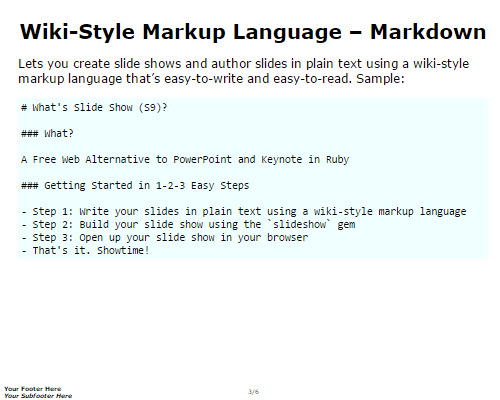
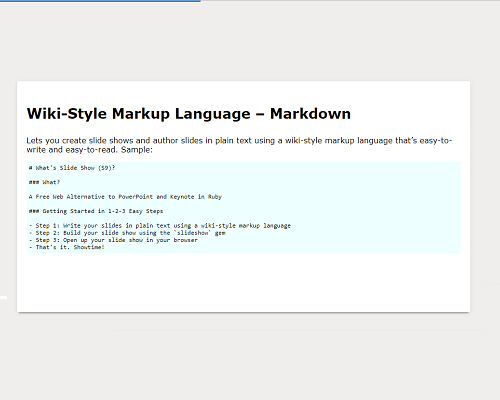
use _slides

diff --git a/_slides/05-templates.html b/_slides/05-templates.html
@@ -1,0 +1,24 @@
+---
+---
+
+<h1>Slide Show (S9) Template Pack Options</h1>
+<!-- begin left {} -->
+<table width='100%'><tr><td width='50%' markdown='block' style='vertical-align: top;'>
+<h3>What&#8217;s S5?</h3>
+<p>Simple Standards-based Slide Show System (S5) is a classic public domain (free, open source) slide show package inspired by Opera Show and others
+that works in all modern browsers (without any plugin required
+because it includes its own slide show machinery in JavaScript).</p>
+<p>(Use the <code>s5blank</code> or <code>s5themes</code> template pack to create S5 slide shows.)</p>
+</td>
+<!-- end left -->
+<!-- begin right {} -->
+<td width='50%' markdown='block' style='vertical-align: top;'>
+<h3>What&#8217;s S6?</h3>
+<p>S6 started as a rewrite of S5 using the jQuery JavaScript library &#8212; offering easier to understand and easier to extend code. Add plugins, effects and more. Contributions welcome!</p>
+<p>(Use the <code>s6blank</code> or <code>s6syntax</code> template pack to create S6 slide shows.)</p>
+</td></tr></table>
+<!-- end right -->
+
+<h3>What&#8217;s Slidy? What&#8217;s Google HTML5 Slides?</h3>
+<p>Check the <a href="http://slideshow-templates.github.io">Slide Show (S9) Template Gallery</a>
+for more template packs and samples.</p>

diff --git a/_slides/01-agenda.html b/_slides/01-agenda.html
@@ -1,0 +1,37 @@
+---
+---
+
+<h1>Slide Show (S9) 10-Minute Tutorial</h1>
+<p>Agenda</p>
+<ul>
+  <li>What&#8217;s Slide Show (S9)?</li>
+  <li>Wiki-Style Markup Language &#8211; Markdown, Textile</li>
+  <li>How it works &#8211; Just press F11!</li>
+  <li>What&#8217;s S5? What&#8217;s S6?</li>
+</ul>
+
+<hr />
+
+<!-- begin help -->
+<div class='help projection'>
+<p><strong>Slide Show Keyboard Controls (Help)</strong></p>
+<table>
+<tr>
+  <td> Action </td>
+  <td> Key </td>
+</tr>
+<tr>
+  <td> Go to next slide </td>
+  <td> Space Bar, Right Arrow, Down Arrow, Page Down</td>
+</tr>
+<tr>
+  <td> Go to previous slide </td>
+  <td> Left Arrow, Up Arrow, Page Up </td>
+</tr>
+<tr>
+  <td> Zoom in, zoom out, zoom reset (100%)  </td>
+  <td> Control<code>+</code>Plus, Control<code>+</code>Minus, Control<code>+</code><code>0</code> </td>
+</tr>
+</table>
+</div>
+<!-- end help -->

diff --git a/slides.html b/slides.html
@@ -2,8 +2,9 @@
 ---
 
 {% if jekyll %}
-  {% assign headers  = site.data.slides.headers %}
-  {% assign content  = site.data.slides.content %}
+  {% assign headers   = site.headers %}
+  {% assign slides    = site.slides %}
+  {% assign content   = site.data.slides.content %}
   {% assign name     = 'style' %}
 {% endif %}
 
@@ -33,7 +34,11 @@
 
 <article id="presentation">
 
-{{ content }}
+{% for slide in slides %}
+<section class="slide {{ slide.classes }}" id="{{ forloop.index }}">
+  {{ slide.content }}
+</section>
+{% endfor %}
 
 </article><!-- presentation -->
 
@@ -48,6 +53,6 @@
 
      {{ more_content_for_js }}
   </script>
-  
+
 </body>
 </html>

diff --git a/_slides/04-how-it-works.html b/_slides/04-how-it-works.html
@@ -1,0 +1,16 @@
+---
+---
+
+<h1>How it works &#8211; Just press F11!</h1>
+<p>The Slide Show (S9) Ruby gem turns your slides in plain text into a web page
+that&#8217;s an all-in-one-page handout and a live slide show all at once.</p>
+<pre class='code'>
+$ slideshow build tutorial.txt
+
+=&gt; Preparing slideshow 'tutorial.html'...
+=&gt; Done.
+</pre>
+<p>Turn your web page into a slide show and your browser into full screen projection
+with a single push button (F11).  Hit the space bar or the right arrow, down arrow
+or page down key to flip through your slides.</p>
+<p>That&#8217;s all. It&#8217;s that simple.</p>

diff --git a/_slides/03-markdown.html b/_slides/03-markdown.html
@@ -1,0 +1,20 @@
+---
+---
+
+<h1>Wiki-Style Markup Language &#8211; Markdown</h1>
+<p>Lets you create slide shows and author slides in plain text using a wiki-style markup language that&#8217;s easy-to-write and easy-to-read.
+Sample:</p>
+<pre class='code'>
+# What's Slide Show (S9)?
+
+### What?
+
+A Free Web Alternative to PowerPoint and Keynote in Ruby
+
+### Getting Started in 1-2-3 Easy Steps
+
+- Step 1: Write your slides in plain text using a wiki-style markup language
+- Step 2: Build your slide show using the `slideshow` gem
+- Step 3: Open up your slide show in your browser
+- That's it. Showtime!
+</pre>

diff --git a/_slides/02-whats-s9.html b/_slides/02-whats-s9.html
@@ -1,0 +1,13 @@
+---
+---
+
+<h1>What&#8217;s Slide Show (S9)?</h1>
+<h3>What?</h3>
+<p>A Free Web Alternative to PowerPoint and Keynote in Ruby</p>
+<h3>Getting Started in 1-2-3 Easy Steps</h3>
+<ul>
+  <li class="step">Step 1: Write your slides in plain text using a wiki-style markup language</li>
+  <li class="step">Step 2: Build your slide show using the <code>slideshow</code> gem</li>
+  <li class="step">Step 3: Open up your slide show in your browser and hit the space bar to flip through your slides</li>
+  <li class="step">That&#8217;s it. Showtime!</li>
+</ul>

diff --git a/slides.pdf.html b/slides.pdf.html
@@ -2,8 +2,8 @@
 ---
 
 {% if jekyll %}
-  {% assign headers  = site.data.slides.headers %}
-  {% assign content  = site.data.slides.content %}
+  {% assign headers   = site.headers %}
+  {% assign slides    = site.slides %}
 {% endif %}
 
 
@@ -63,7 +63,11 @@ for princexml (CSS3 paged media support)
 
 <article id="presentation">
 
-{{ content }}
+{% for slide in slides %}
+<section class="slide {{ slide.classes }}" id="{{ forloop.index }}">
+  {{ slide.content }}
+</section>
+{% endfor %}
 
 </article> <!-- presentation -->
 </body>

diff --git a/_slides/06-questions.html b/_slides/06-questions.html
@@ -1,0 +1,7 @@
+---
+---
+
+<h1>Thank You &#8211; Learn More &#8211; Questions? Comments?</h1>
+<p>Gerald Bauer designed and developed the Slide Show (S9) Ruby gem.
+Find out more @ <a href="http://slideshow-s9.github.io">slideshow-s9.github.io</a></p>
+<p>Questions? Comments? Send them along to the <a href="http://groups.google.com/group/wwwmake">wwwmake forum/mailing list</a>. Thanks!</p>

diff --git a/style.css b/style.css
@@ -1,12 +1,6 @@
 ---
 ---
 
-{% if jekyll.version %}
-{% else %}
-  {% capture more_content_for_css %}{{ content_for :css }}{% endcapture %}
-{% endif %}
-
-
 
 body { font-family: Verdana, Geneva, Arial, Helvetica, sans-serif; }
 
